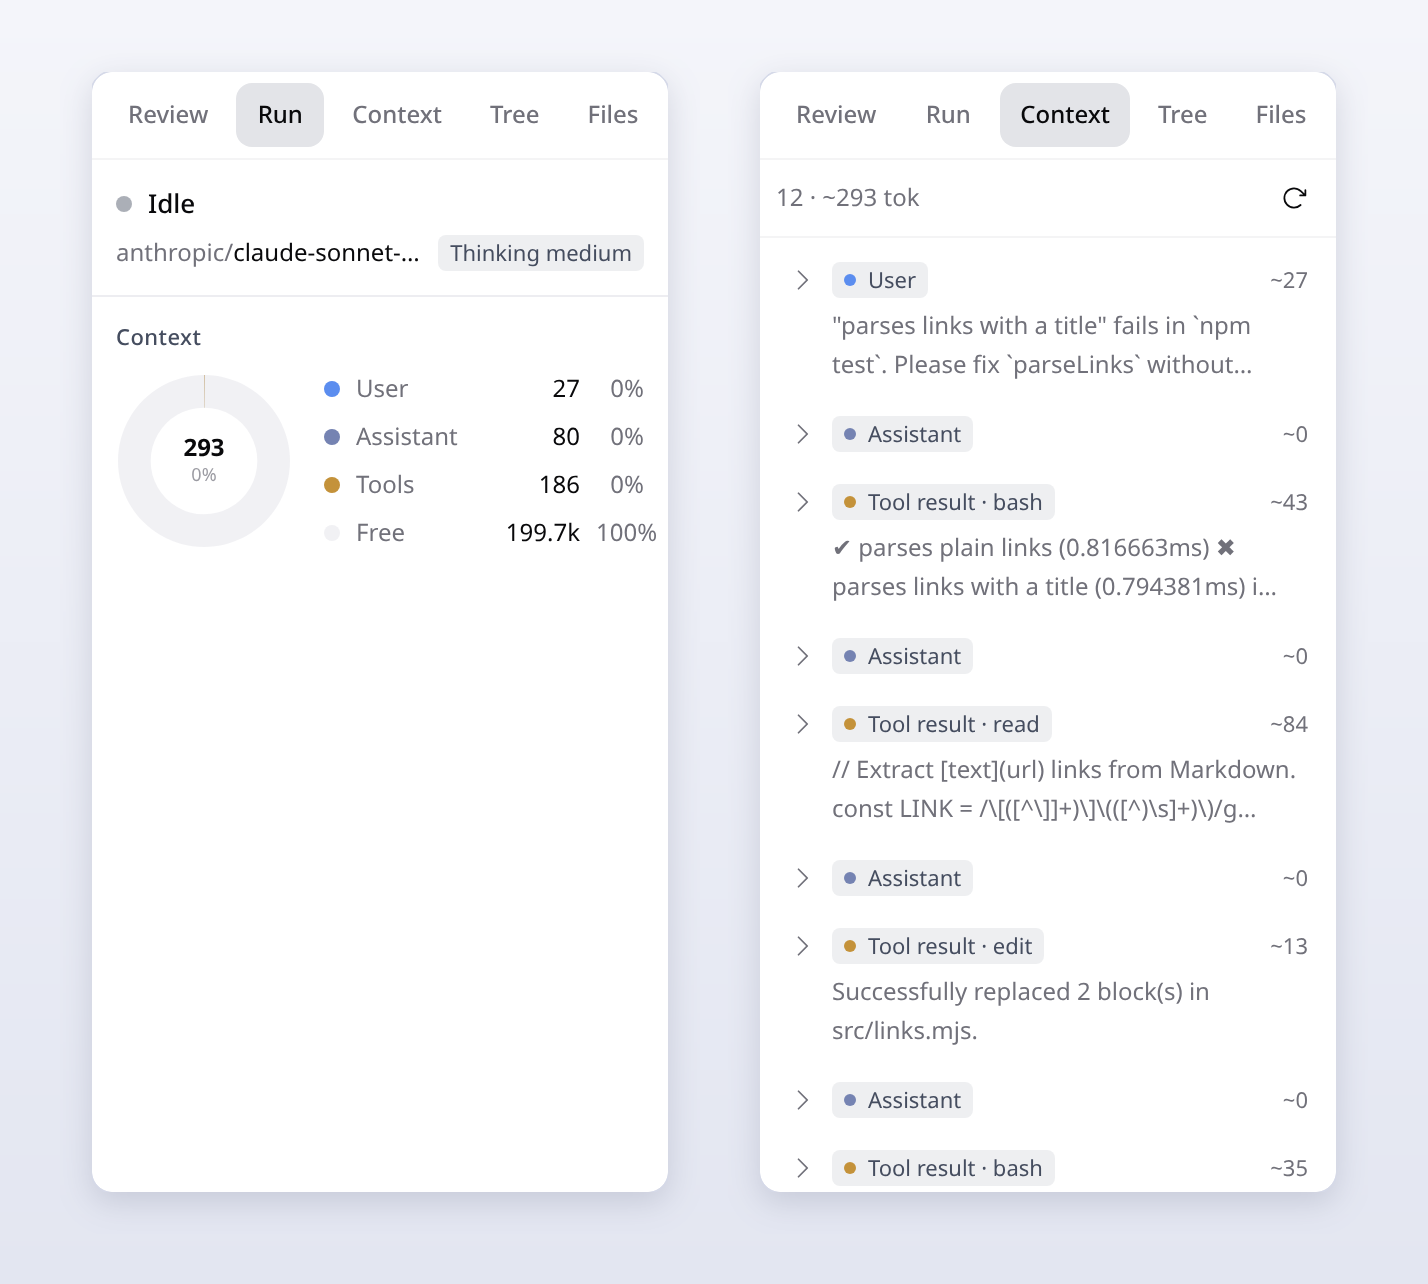
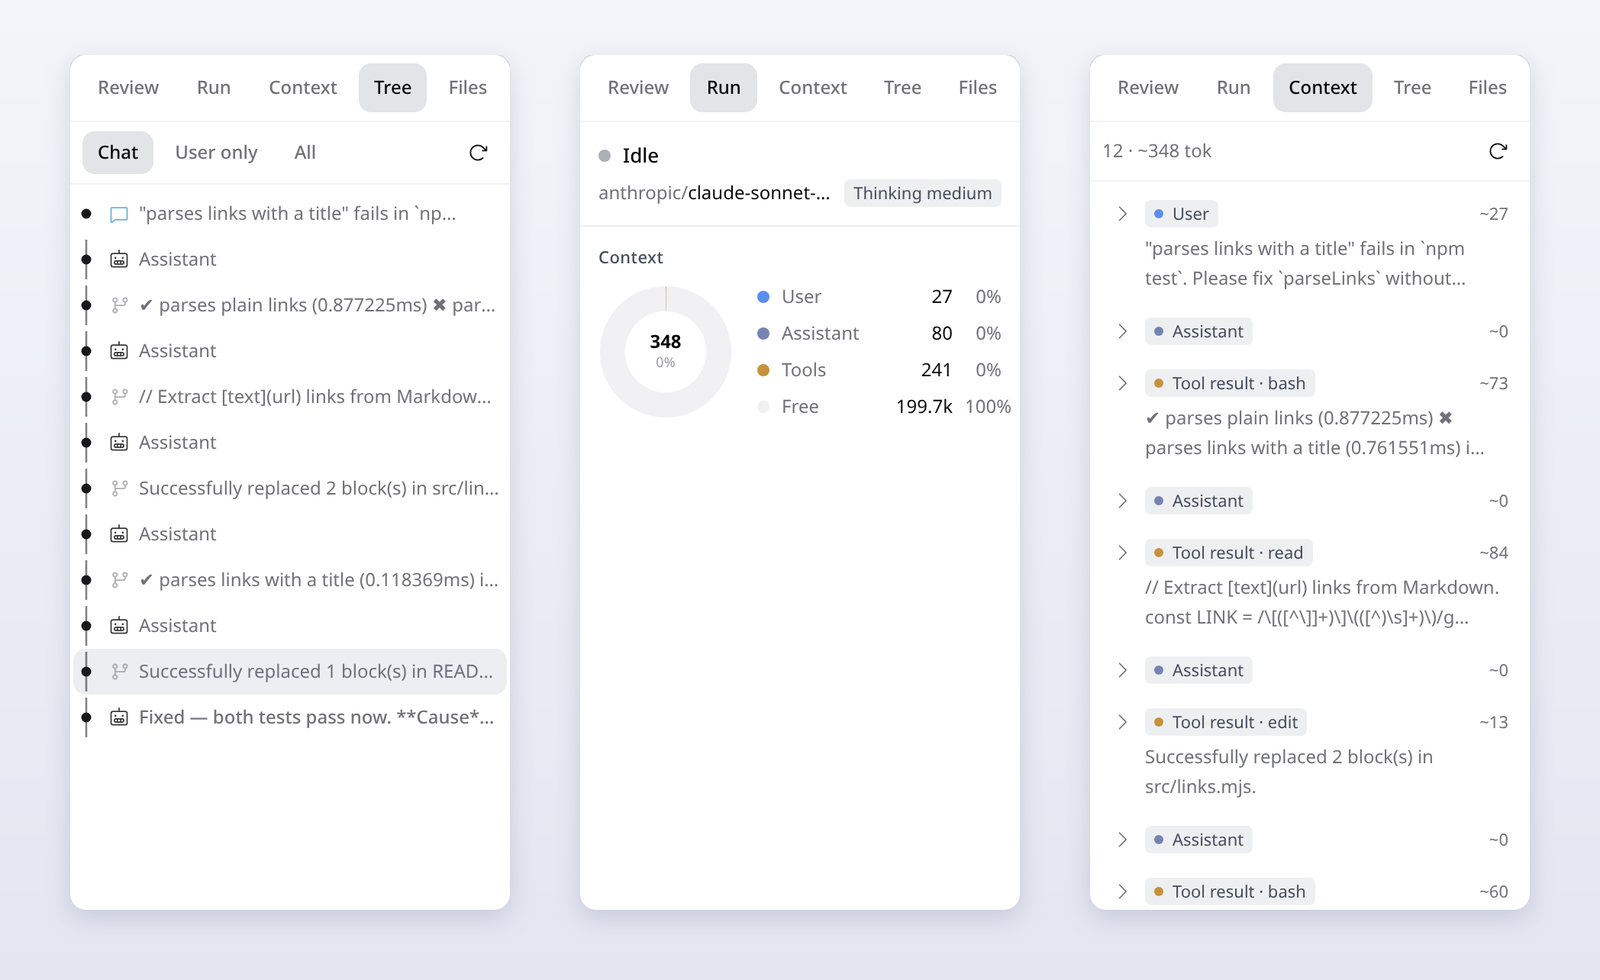
docs(readme): recapture visuals with the localized tree and ANSI-safe previews
The demo tests run plain `node --test` again (colored output), which now
renders cleanly in Tree and Context; the English panel strip shows the
translated session tree alongside Run and Context.

diff --git a/README.md b/README.md
@@ -72,7 +72,7 @@ Each session runs in its own worker. Start a turn, open another session and star
 
 ## More panels
 
-<img src="doc/assets/readme/en/panels.png" alt="Run panel with the context breakdown ring and the Context panel listing context entries with token estimates" width="66%" />
+<img src="doc/assets/readme/en/panels.png" alt="Tree panel with the session as a tree, Run panel with the context breakdown ring, and the Context panel listing context entries with token estimates" width="100%" />
 
 | Panel | What it does |
 |---|---|
